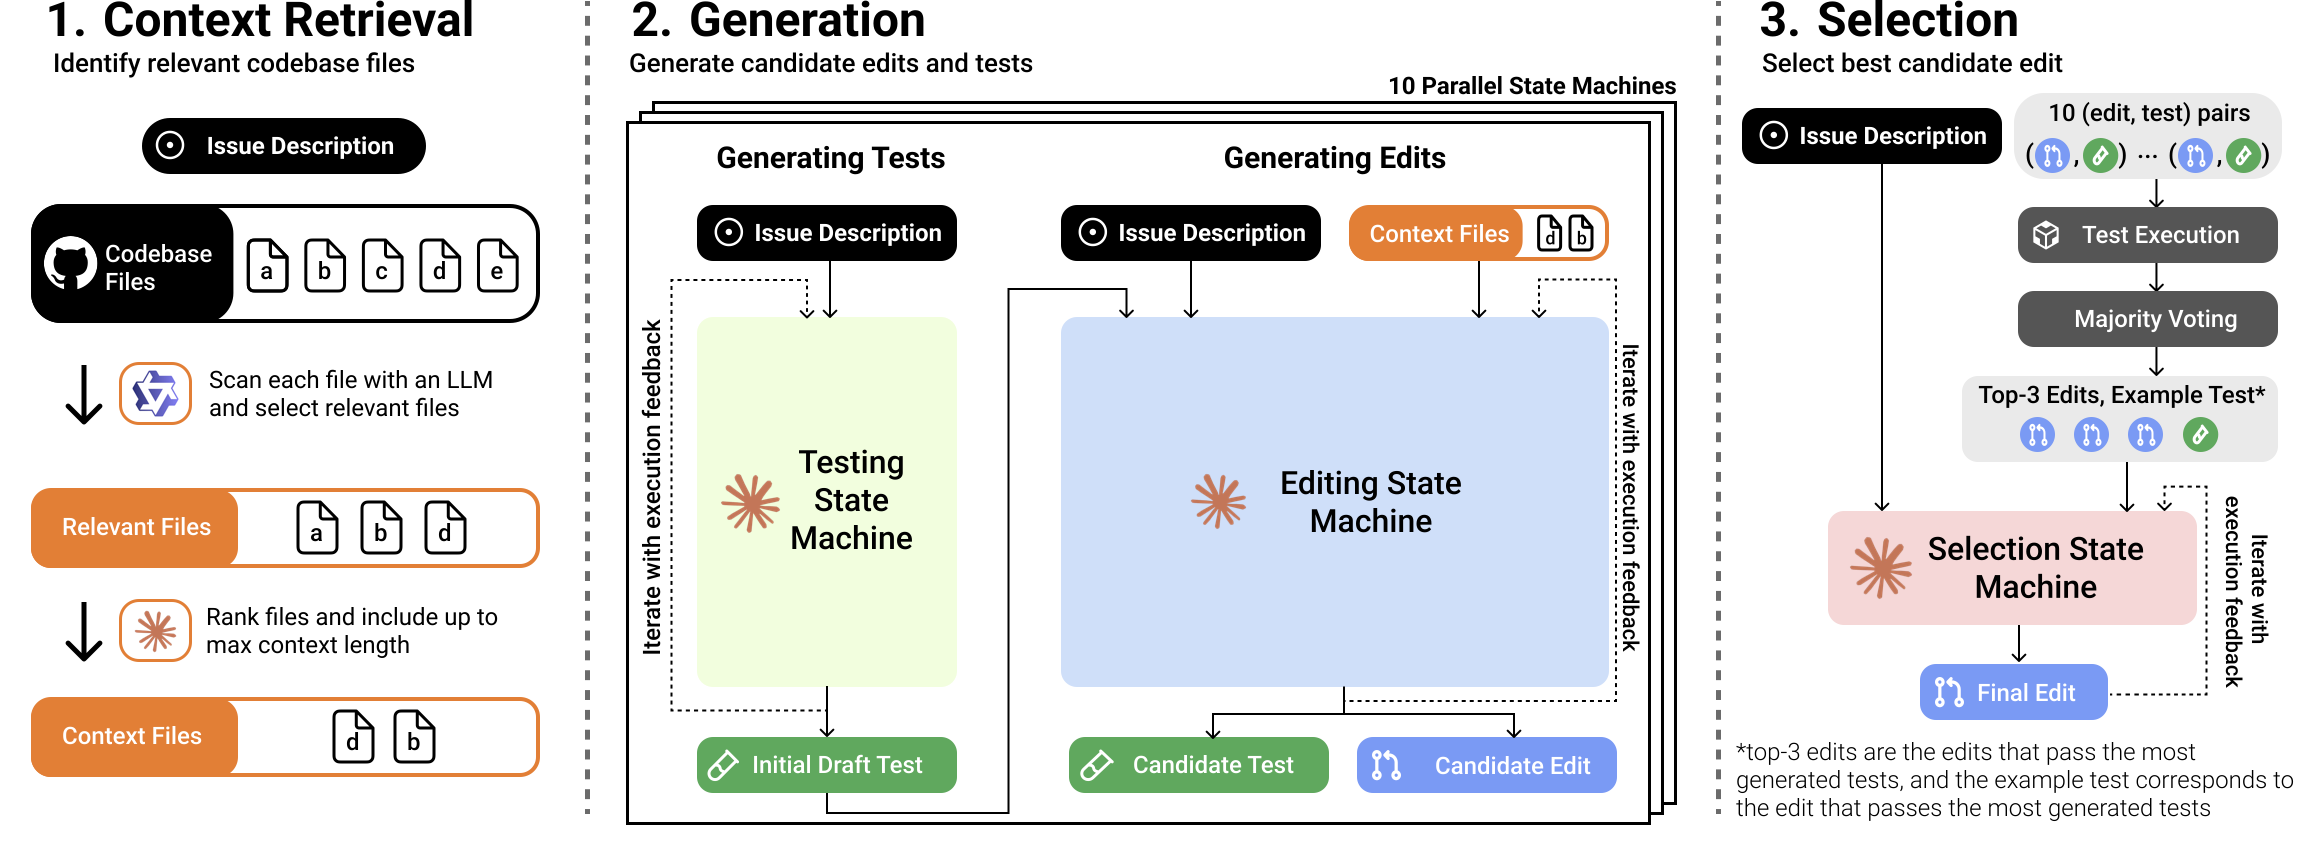
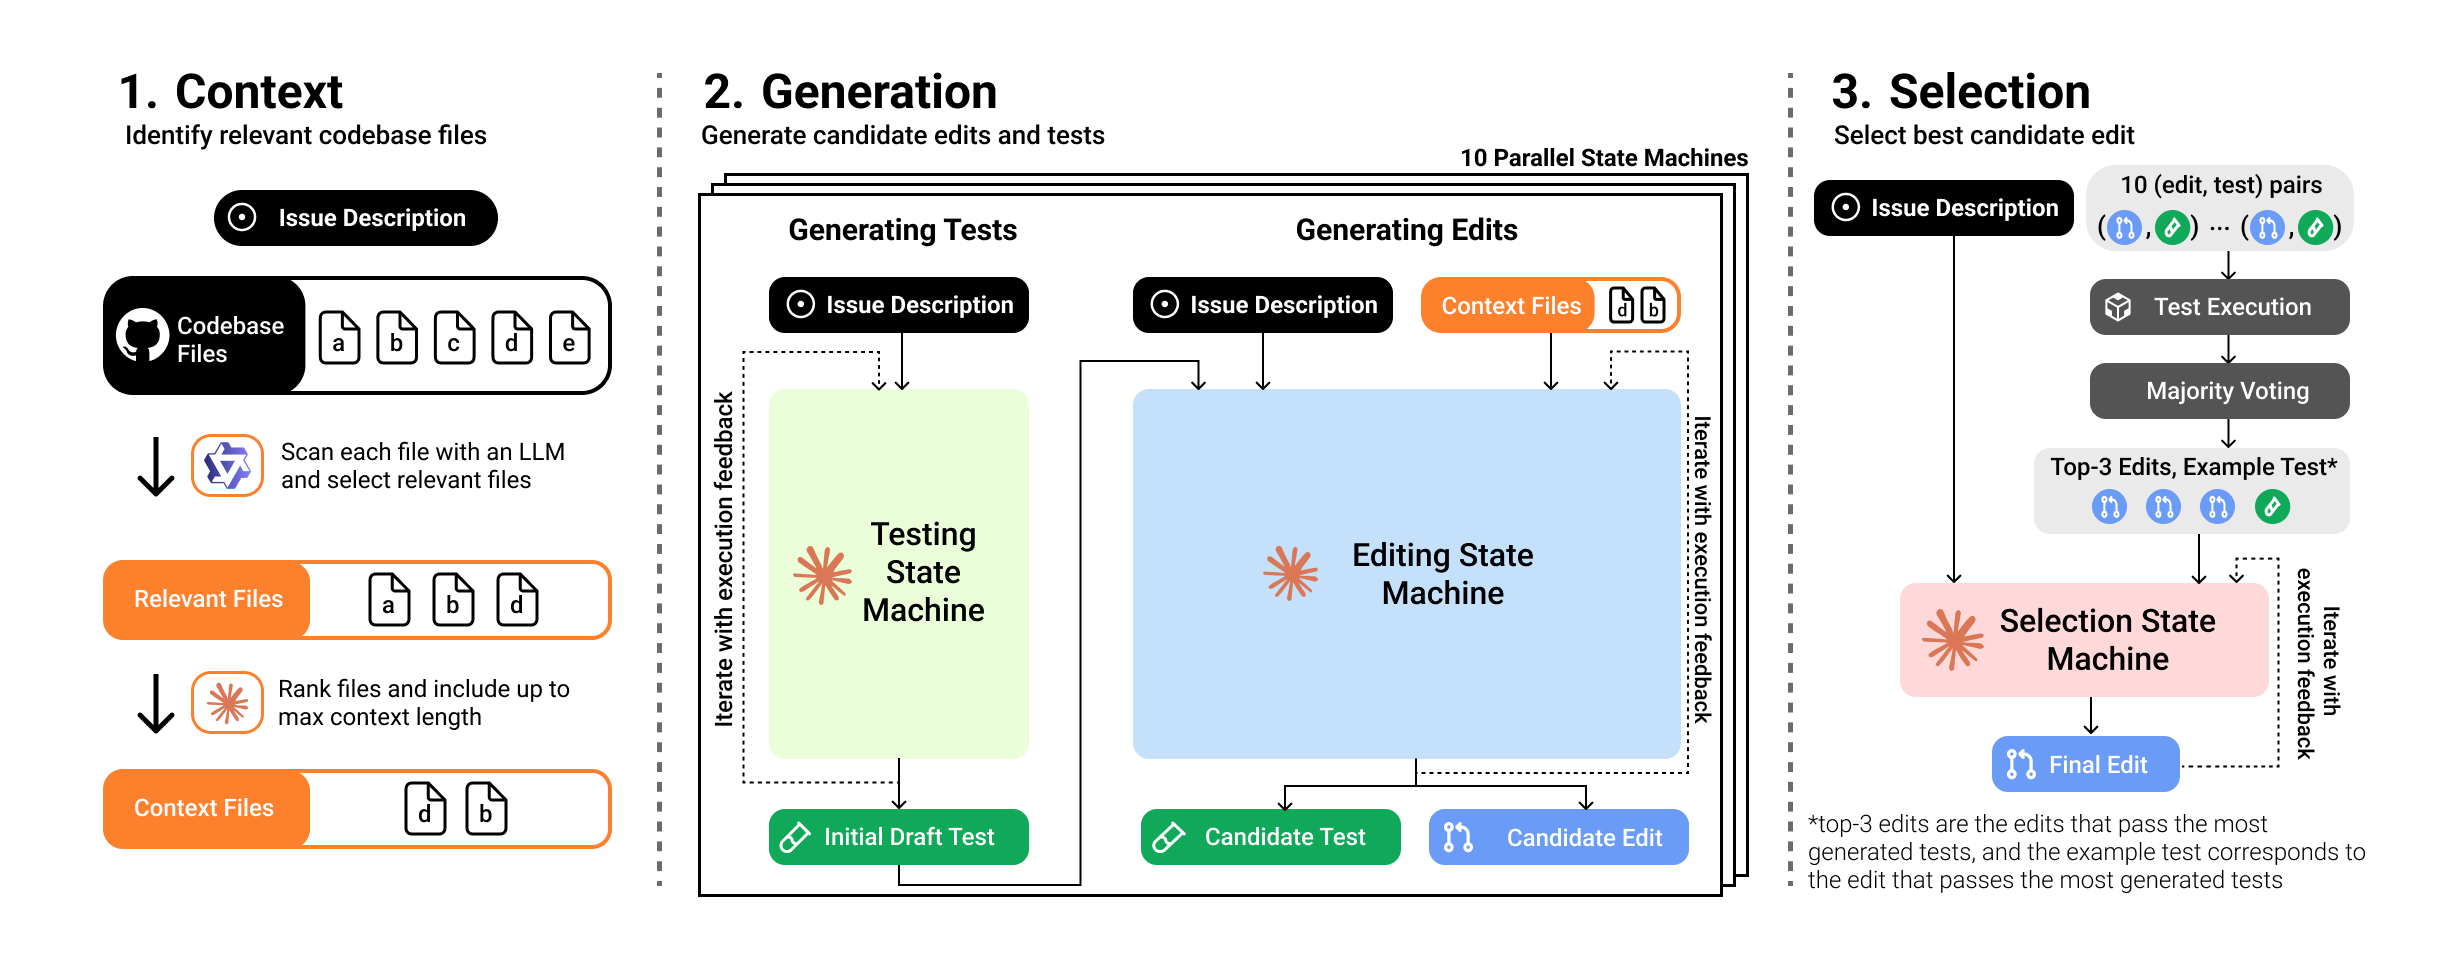
updated blog post

Changed region(s): [[0.0, 0.0, 1.0, 0.9652], [0.4939, 0.5429, 0.6483, 0.6334]]

diff --git a/_blogs/codemonkeys.md b/_blogs/codemonkeys.md
@@ -20,7 +20,7 @@ date: 2025-01-21
 teaser: 
 materials:
   - name: Paper
-    url: https://arxiv.org/
+    url: https://arxiv.org/abs/2501.14723
     type: file-pdf
   - name: CodeMonkeys Codebase
     url: https://github.com/ScalingIntelligence/codemonkeys
@@ -37,21 +37,20 @@ materials:
 
   <p>Today, we're releasing CodeMonkeys, a system designed to solve software engineering problems by scaling test-time compute.</p>
 
-  <img src="/imgs/blog/codemonkeys/system_overview.png" alt="" style="width: 100%; height: auto;">
+  <img src="/imgs/blog/codemonkeys/system_overview.png" alt="CodeMonkeys system overview. There are 3 subtasks: context, generation, and selection" style="width: 100%; height: auto;">
   
 
   <p>CodeMonkeys scores 57.4% on SWE-bench Verified using Claude Sonnet 3.5.</p>
-  <p>Further, when using CodeMonkeys' <a href="#selection">candidate selection</a> to select from an ensemble of solutions constructed from CodeMonkeys and existing top SWE-bench verified submissions, we achieve a score of 66.2%. This score outperforms all members of the ensemble and comes 5.5% below o3's reported score of 71.7%.</p>
+  <p>Our <a href="#selection">candidate selection</a> method can also be used to combine candidates from different sources. Selecting over an ensemble of edits from existing top SWE-bench Verified submissions obtains a score of 66.2%, outperforms the best member of the ensemble on its own, and comes 5.5% below o3's reported score of 71.7%.</p>
 
   <p>Concretely, we are releasing:</p>
   <ul>
+      <li><strong><a href="https://arxiv.org/abs/2501.14723">A paper</a></strong> that describes our method in more detail.</li>
       <li><strong><a href="https://github.com/scalingintelligence/codemonkeys">The CodeMonkeys codebase</a>.</strong> This includes scripts for reproducing all results from our paper and running CodeMonkeys on SWE-bench problems.</li>
-      <li><strong><a href="#">All trajectories generated while solving SWE-bench problems.</a></strong> These trajectories contain all model outputs, candidate edits, test scripts, and execution traces generated while running CodeMonkeys on SWE-bench Verified.</li>
+      <li><strong><a href="https://github.com/swe-bench/experiments/pull/171">All trajectories generated while solving SWE-bench problems.</a></strong> These trajectories contain all model outputs, candidate edits, test scripts, and execution traces generated while running CodeMonkeys on SWE-bench Verified.</li>
       <li><strong><a href="#costs">A careful accounting of the cost of running CodeMonkeys.</a></strong> Software engineering agents are expensive: running CodeMonkeys on SWE-bench Verified cost $2300 USD. </li>
       <li><strong><a href="https://huggingface.co/datasets/ScalingIntelligence/swe-bench-verified-codebase-content">A companion dataset containing complete Python codebase snapshots for all problems in SWE-bench Verified.</a></strong> This dataset makes it easier to work with SWE-bench by providing direct access to repository contents, without needing to clone and manage large Git repositories.</li>
   </ul>
-
-  <p> We'll start by <a href="#motivation">talking about monkeys</a>, transition into how this motivated the <a href="#codemonkeys">design of CodeMonkeys</a>, CodeMonkeys' <a href="#results">results on SWE-bench</a>, and end with <a href="#ensemble">ensembling for SWE-bench</a>.</p>
 
   <section id="swebench">
       <h2>SWE-bench</h2>
@@ -64,16 +63,15 @@ materials:
       <p>In this work, we've focused on <a href="https://openai.com/index/introducing-swe-bench-verified/">SWE-bench Verified</a>, a subset of SWE-bench where human annotators have filtered out low-quality instances (e.g. those with ambiguous issue descriptions).</p>
   </section>
     <section id="motivation">
-        <h2>Large Language Monkeys</h2>
+        <h2>Let's talk about Monkeys</h2>
         <p>We began working on SWE-bench in our previous work, <a href="https://scalingintelligence.stanford.edu/pubs/large_language_monkeys/">Large Language Monkeys</a>. In that paper, we demonstrated a promising property of LLMs: when solving software engineering (and other) problems, coverage, the fraction of problems that are solved by at least one attempt, increases log-linearly with the number of solutions drawn from the model.</p>
         
         <img src="/imgs/blog/monkeys/coverage.png" alt="Coverage (percent of problems solved by any sample) increases across five code and math reasoning tasks." style="width: 100%; height: auto;">
 
-        <p><strong>This means that as you spend more test time compute by drawing more samples, the fraction of problems that you have at least one correct solution for increases consistently and predictably.</strong></p>
+        <p>These results showed clear potential for using how we might use test-time compute to improve performance on SWE-bench; by investing more test time compute in larger sample collections, we can steadily increase the probability that these collections contain correct solutions. However, acheiving high coverage does not mean that a system can solve SWE-bench issues with a high rate of success. Benefiting from coverage requires that a system can select a correct solution out of its collection of generations.</p>
+
         
-        <p>While these results showed clear potential for improving performance on benchmarks like SWE-bench, we only demonstrated coverage improvements. To achieve actual performance gains, a system needs to select a correct solution from many candidates. Additionally, we generated our candidates by sampling from an existing framework (<a href="https://github.com/aorwall/moatless-tools">Moatless Tools</a>) multiple times. Although powerful and well-built, the framework wasn't designed for taking multiple attempts per problem.</p>
-        
-        <p>This raised the question: <em>how would one design a system for solving SWE tasks differently if benefiting from test-time compute scaling was a primary consideration?</em></p>
+        <p>Additionally, in Large Language Monkeys we generated candidate edits by repeatedly sampling from an existing framework (<a href="https://github.com/aorwall/moatless-tools">Moatless Tools</a>) which designed for generating only a single edit. This raised the question: if we were instead to build a system from scratch that was designed to solve SWE-bench instances by scaling test-time compute, what might that system look like?</p>
     </section>
 
     <section id="codemonkeys">
@@ -81,9 +79,15 @@ materials:
         <p>This question led us to build CodeMonkeys, a system designed to solve software engineering problems by scaling test-time compute. Similar to existing approaches like <a href="https://github.com/OpenAutoCoder/Agentless?tab=readme-ov-file">Agentless</a>, we decomposed solving SWE-bench issues into 3 subtasks:</p>
 
         <ol>
-            <li><strong>Context</strong>, identifying relevant codebase files.</li>
-            <li><strong>Generation</strong>, generating candidate edits and tests.</li>
-            <li><strong>Selection</strong>, selecting a final answer from a collection of edits and tests.</li>
+            <li><strong>Context:</strong> can we identify the codebase files that need to be edited and put them in the
+context window? We can measure outcome of this subtask with <strong>recall</strong>: the fraction of
+problems where all needed files have been identified.</li>
+            <li><strong>Generation</strong>: can we produce a correct codebase edit among any of our sampled candidates?
+We can measure this outcome of this subtask with <strong>coverage</strong>: the fraction of problems where
+at least one generated edit is correct.</li>
+            <li><strong>Selection</strong> can we choose a correct codebase edit from our collection of candidates? After
+completing this subtask, we can measure our final <strong>score</strong>: the fraction of problems in the
+dataset that are resolved by the edit our system submits.</li>
         </ol>
 
         <h3>Task 1: Context</h3>
@@ -94,9 +98,11 @@ materials:
             <p><strong>Outputs:</strong> Relevant Files (120,000 tokens)</p>
         </div>
 
-        <p>First, we identify relevant codebase context. As we generate multiple candidate solutions, we can amortize the cost of context identification across all downstream samples.</p>
+        <p>One of the key challenges when solving SWE-bench instances is managing the large volume of input context. Most SWE-bench codebases contain millions of tokens worth of context: this exceeds the context lengths of most available models. Further, it would be prohibitively expensive to process using frontier models.</p>
+
+        <p>We need to filter the codebases down to something that fits into current models context windows. As we generate multiple candidate solutions, we can amortize this cost of context identification across all downstream samples.</p>
         
-        <p>This lets us use a simple but effective approach: we let a model (specifically, <a href="https://huggingface.co/Qwen/Qwen2.5-Coder-32B-Instruct">Qwen2.5-Coder-32B-Instruct</a>) read every Python file in the codebase and label each file as "relevant" or "not relevant". Then, we used <a href="https://claude.ai">Claude Sonnet-3.5</a> to rank the relevant files by importance, allowing up to 120,000 tokens of context.</p>
+        <p>We use a simple but effective approach to find relevant files: we let a model (specifically, <a href="https://huggingface.co/Qwen/Qwen2.5-Coder-32B-Instruct">Qwen2.5-Coder-32B-Instruct</a>) read every Python file in the codebase in parallel and independently label each file as "relevant" or "not relevant". Then, we used <a href="https://claude.ai">Claude Sonnet-3.5</a> to rank the relevant files by importance, allowing up to 120,000 tokens of context.</p>
 
         <h3>Task 2: Generation</h3>
         
@@ -106,10 +112,17 @@ materials:
         </div>
 
         <center>
-          <img src="/imgs/blog/codemonkeys/testing_and_editing_sm.png" alt=""  style="width: 90%; height: auto; margin: auto 0;">
+          <img src="/imgs/blog/codemonkeys/testing_and_editing_sm.png" alt="The testing and editing state machine."  style="width: 90%; height: auto; margin: auto 0;">
         </center>
 
-        <p>Then, we generate candidate solutions. We run multiple parallel state machines that each generate both a codebase edit and a corresponding testing script. These state machines iteratively refine their edits and tests based on execution feedback. This provides two ways to scale test-time compute: we can increase the number of iterations per state machine ("serial scaling") or increase the number of independent state machines per problem ("parallel scaling").</p>
+        <p>We decompose this stage of our system into two back-to-back state machines:</p>
+        
+        <ol>
+            <li>An initial <strong>testing state machine</strong> which iterates on an initial draft of the test script.</li>
+            <li>A follow-up <strong>editing state machine</strong> which iterates on a codebase edit. This state machine is seeded with the output of a testing state machine and can also revise the testing script as needed.</li>
+        </ol>
+        
+        <p>These state machines iteratively refine their outputs based on execution feedback. This provides two ways to scale test-time compute: we can increase the number of iterations per state machine ("serial scaling") or increase the number of independent state machines per problem ("parallel scaling").</p>
 
         <h3 id="selection">Task 3: Selection</h3>
         
@@ -119,25 +132,25 @@ materials:
         </div>
 
         <center>
-          <img src="/imgs/blog/codemonkeys/selection_sm.png" alt=""  style="margin-top: 4px; width: 50%; height: auto;">
+          <img src="/imgs/blog/codemonkeys/selection_sm.png" alt="The selection state machine."  style="margin-top: 4px; width: 50%; height: auto;">
         </center>
 
-        <p>Finally, we select among the candidate solutions. We combine two approaches: using the model-generated tests to vote on solutions, and running a dedicated selection state machine that can write additional tests to differentiate between top candidates.</p>
+        <p>Finally, we select among the candidate solutions. We combine two approaches: using the model-generated tests to vote on solutions, and running a dedicated selection state machine that can write additional tests to differentiate between top candidates. Similar to the editing and testing state machines, this state machine can iterate based on execution feedback.</p> 
     </section>
 
 <section id="results">
         <h2>Results by task</h2>
-        <img src="/imgs/blog/codemonkeys/results_by_stage.png" alt=""  style="width: 100%; height: auto;">
+        <img src="/imgs/blog/codemonkeys/results_by_stage.png" alt="Results by stage, see paragraph below for data."  style="width: 100%; height: auto;">
         
         <div class="component-results">
             <h3>Context</h3>
             <p>With the 128k token limit, 92.6% of instances have the correct files in context. </p>
             
             <h3>Generation</h3>
-            <p>By running multiple state machines in parallel and allowing each to iterate multiple times, we achieve 69.8% coverage. This means that for about 70% of problems, at least one of our candidate solutions is correct. Notably, in our experiments, we found that different ways of distributing compute between parallel scaling (more state machines) and serial scaling (more iterations per machine) often lead to similar coverage values.</p>
+            <p>By running multiple state machines in parallel and allowing each to iterate on their answer, we achieve 69.8% coverage. This means that for about 70% of problems, at least one of our candidate solutions is correct. Notably, in our experiments, we found that different ways of distributing compute between parallel scaling (more state machines) and serial scaling (more iterations per machine) often lead to similar coverage values.</p>
             
             <h3>Selection</h3>
-            <p>Our selection method, which combines test-based voting with a dedicated selection state machine, recovers approximately half of the gap between random selection and using an oracle. This leads to a final score of 57.4%.</p>
+            <p>Our selection method, which combines test-based voting with a dedicated selection state machine, recovers approximately half of the gap between random selection (45.8%) and using an oracle (69.8%). This leads to a final score of 57.4%.</p>
         </div>
   </section>
 
@@ -261,10 +274,10 @@ materials:
 </style>
 
 
-<p>The cost breakdown reveals several insights about CodeMonkeys:</p>
+<p>There's a few things to note in our cost breakdown:</p>
 
 <ul class="cost-analysis">
-    <li>Our context identification contributes only 15% to total costs with a high recall. A simple linear scan with a small model can be quite effective! </li>
+    <li>Our context identification contributes only 15% to total costs with a high recall. A simple linear scan with a small model can work! </li>
     
     <li>Generating edits is the most expensive component (60% of costs), primarily due to cache read costs from including codebase context in prompts.</li>
     
@@ -320,14 +333,14 @@ materials:
 
   <p>When we run our selection state machine over this expanded pool of candidate solutions, we achieve a score of 66.2%. This outperforms both CodeMonkeys on its own (57.4%) and the previous best ensemble submission (62.8%), showing how our selection method can effectively identify correct solutions even when they come from different frameworks.</p>
 
-  <p>Something we took away from this is the importance of selection: with oracle selection could yield 10% gains. TODO FIX</p>
+  <!-- <p>Something we took away from this is the importance of selection: with oracle selection could yield 10% gains. TODO FIX</p> -->
 
 
 </section>
 
 <section id="data">
   <h2>Data Release & Paper</h2>
-  <p>We are releasing two complementary datasets and a paper. We hope these support different aspects of research.</p>
+  <p>We are releasing two datasets in addition to our paper. We hope these support future research into Software Engineering agents.</p>
   
   <h3><a>CodeMonkeys Trajectories</a></h3>
   <p>Our first dataset contains the complete problem-solving trajectories from running CodeMonkeys on SWE-bench Verified. For each of the 500 problems, we release all state data. This includes all LLM outputs.</p>
@@ -342,13 +355,13 @@ materials:
   <div style="width: 100%; overflow-x: auto">
   <code style="white-space: pre">
 @misc{ehrlich2025codemonkeys,
-      title={Large Language Monkeys: Scaling Inference Compute with Repeated Sampling}, 
+      title={CodeMonkeys: Scaling Test-Time Compute for Software Engineering}, 
       author={Ryan Ehrlich and Bradley Brown and Jordan Juravsky and Ronald Clark and Christopher Ré and Azalia Mirhoseini},
-      year={2024},
-      eprint={2407.21787},
+      year={2025},
+      eprint={2501.14723},
       archivePrefix={arXiv},
       primaryClass={cs.LG},
-      url={https://arxiv.org/abs/2407.21787}, 
+      url={https://arxiv.org/abs/2501.14723}, 
 }</code>
 </div>
 </section>
